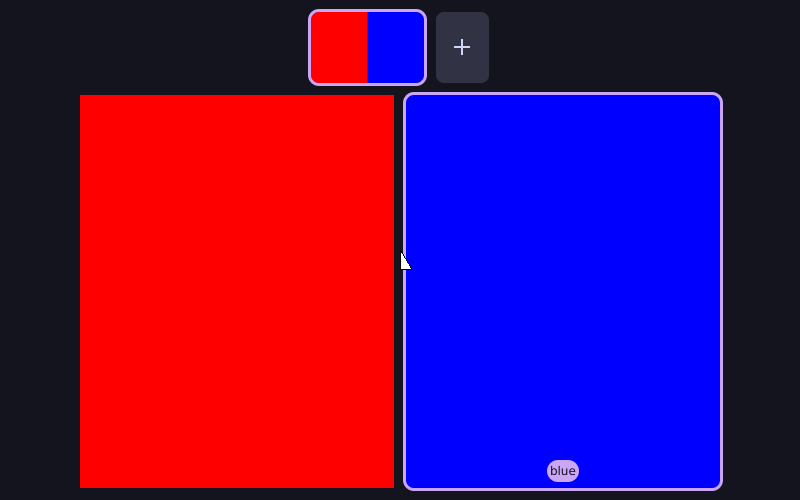
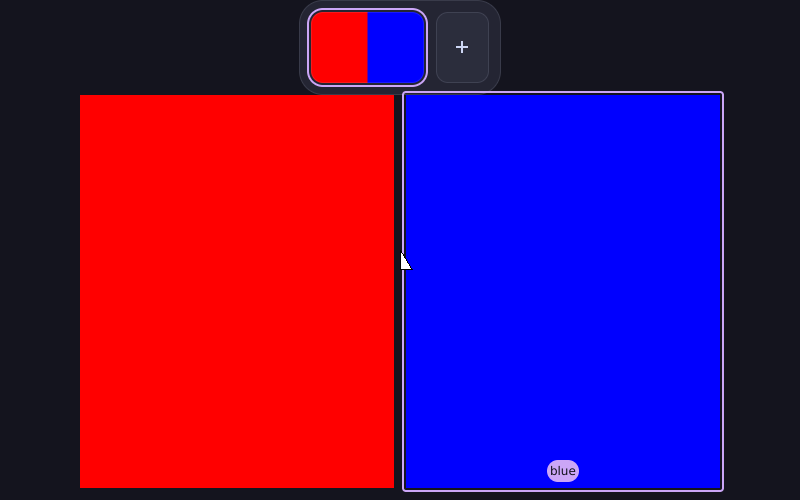
overview: the strip, the + tile and the ring in the shell's frosted material (#261)
Rendered on the RTX 3060 Ti with the default look, the overview did not match
lys-shell's glass panels. The + tile was an opaque block, the thumbnails floated
with nothing tying them together, and the ring touched what it marked.

The strip now sits on a pane with the shell's recipe: a 55% card tint and a 12%
hairline over the blurred layers, with a radius of the rounding plus 4. The +
tile is the same glass and its glyph is smaller. A thumbnail gets that hairline
inside its own footprint. The ring is 2 px with a 2 px gap, following the
window's rounding on a window. Hover is a 10% ink like the shell's, rather than
a grey wash.

The pane draws behind the windows and slides as one piece, because over them it
tinted the border of a window still shrinking from the full output. The overview
golden changes because the look is meant to.

Changed region(s): [[0.375, 0.0, 0.9062, 0.99]]

diff --git a/wm/internal/compositor/overviewdraw.go b/wm/internal/compositor/overviewdraw.go
@@ -16,12 +16,17 @@ import (
 )
 
 const (
-	overviewRadius      = 8
-	overviewRing        = 3
+	overviewRadius      = lookUnit + 4
+	overviewRingWidth   = 2
+	overviewRingGap     = 2
+	overviewTrayPad     = 12
 	overviewLabelPx     = 12
 	overviewLabelHeight = 22
 	overviewLabelGap    = 6
 	overviewPlusArm     = 2
+	overviewGlassTint   = 0.55
+	overviewRimStrength = 0.12
+	overviewHoverInk    = 0.1
 )
 
 var overviewGlass wm.Look
@@ -56,6 +61,7 @@ func (c *Compositor) drawOverview(pass *frame, o *output.Output, v *overviewView
 	if c.switches[o] == nil {
 		v.leaving = nil
 	}
+	c.drawOverviewPane(pass, o, v, p, in)
 	shown = c.drawOverviewEntries(pass, o, v, p, shown)
 	if err := c.drawOverviewStrip(pass, o, v, p, in); err != nil {
 		return shown, err
@@ -185,14 +191,23 @@ func (c *Compositor) drawOverviewDragged(pass *frame, o *output.Output, p float6
 	return shown
 }
 
+func stripSlide(o *output.Output, r image.Rectangle, p float64) image.Rectangle {
+	return anim.LerpRect(r.Sub(image.Pt(0, r.Max.Y-o.Logical().Min.Y)), r, p)
+}
+
+func (c *Compositor) drawOverviewPane(pass *frame, o *output.Output, v *overviewView, p float64, in float32) {
+	if in <= 0 || v.plus.Empty() || len(v.spaces) == 0 {
+		return
+	}
+	pane := stripSlide(o, v.spaces[0].rect.Union(v.plus).Inset(-overviewTrayPad), p)
+	c.drawOverviewGlass(pass, o, deviceRect(o, pane), deviceLength(o, overviewRadius+overviewTrayPad), in)
+}
+
 func (c *Compositor) drawOverviewStrip(pass *frame, o *output.Output, v *overviewView, p float64, in float32) error {
 	if in <= 0 {
 		return nil
 	}
-	top := o.Logical().Min.Y
-	slide := func(r image.Rectangle) image.Rectangle {
-		return anim.LerpRect(r.Sub(image.Pt(0, r.Max.Y-top)), r, p)
-	}
+	slide := func(r image.Rectangle) image.Rectangle { return stripSlide(o, r, p) }
 	radius := deviceLength(o, overviewRadius)
 	redrawn := false
 	settled := c.overview.progress.Done(c.frameTime)
@@ -222,17 +237,18 @@ func (c *Compositor) drawOverviewStrip(pass *frame, o *output.Output, v *overvie
 			tex: t.target.Texture(), src: render.FRect{W: float64(drawn.X), H: float64(drawn.Y)}, dst: dst, alpha: in, version: t.version,
 			mask: render.Mask{Keep: render.RoundRect{Rect: dst, Radius: radius}},
 		})
+		c.drawOverviewRim(pass, o, dst, radius, in)
 		if t.id == v.workspace {
-			c.drawOverviewRing(pass, o, slide(t.rect), in)
+			c.drawOverviewRing(pass, o, slide(t.rect), radius, in)
 		}
 	}
 	if v.plus.Empty() {
 		return nil
 	}
 	dst := deviceRect(o, slide(v.plus))
-	pass.fillMasked(dst, scaleColor(c.decor.Tab.Inactive.Background, in), render.Mask{Keep: render.RoundRect{Rect: dst, Radius: radius}})
+	c.drawOverviewGlass(pass, o, dst, radius, in)
 	arm := max(o.Scale().ToDevice(overviewPlusArm), 1)
-	span := min(dst.Dx(), dst.Dy()) / 3
+	span := min(dst.Dx(), dst.Dy()) / 4
 	mid := dst.Min.Add(dst.Size().Div(2))
 	ink := scaleColor(c.decor.Tab.Inactive.Text, in)
 	pass.FillRect(image.Rect(mid.X-span/2, mid.Y-arm/2, mid.X+span/2, mid.Y-arm/2+arm), ink)
@@ -240,11 +256,26 @@ func (c *Compositor) drawOverviewStrip(pass *frame, o *output.Output, v *overvie
 	return nil
 }
 
-func (c *Compositor) drawOverviewRing(pass *frame, o *output.Output, r image.Rectangle, a float32) {
-	inner := deviceRect(o, r)
-	outer := inner.Inset(-o.Scale().ToDevice(overviewRing))
-	radius := deviceLength(o, overviewRadius)
-	ring := render.Mask{Keep: render.RoundRect{Rect: outer, Radius: radius + float32(inner.Min.X-outer.Min.X)}, Cut: render.RoundRect{Rect: inner, Radius: radius}}
+func (c *Compositor) overviewInk(strength, in float32) render.Color {
+	return scaleColor(c.decor.Tab.Inactive.Text.Premultiply(), strength*in)
+}
+
+func (c *Compositor) drawOverviewGlass(pass *frame, o *output.Output, r image.Rectangle, radius, in float32) {
+	pass.fillMasked(r, scaleColor(c.decor.Tab.Inactive.Background.Premultiply(), overviewGlassTint*in), render.Mask{Keep: render.RoundRect{Rect: r, Radius: radius}})
+	c.drawOverviewRim(pass, o, r, radius, in)
+}
+
+func (c *Compositor) drawOverviewRim(pass *frame, o *output.Output, r image.Rectangle, radius, in float32) {
+	inner := r.Inset(max(o.Scale().ToDevice(1), 1))
+	pass.fillMasked(r, c.overviewInk(overviewRimStrength, in), render.Mask{Keep: render.RoundRect{Rect: r, Radius: radius}, Cut: render.RoundRect{Rect: inner, Radius: max(radius-float32(inner.Min.X-r.Min.X), 0)}})
+}
+
+func (c *Compositor) drawOverviewRing(pass *frame, o *output.Output, r image.Rectangle, radius, a float32) {
+	gap, width := o.Scale().ToDevice(overviewRingGap), o.Scale().ToDevice(overviewRingWidth)
+	inner := deviceRect(o, r).Inset(-gap)
+	outer := inner.Inset(-width)
+	cut := radius + float32(gap)
+	ring := render.Mask{Keep: render.RoundRect{Rect: outer, Radius: cut + float32(width)}, Cut: render.RoundRect{Rect: inner, Radius: cut}}
 	c.paintBorder(pass, c.decor.ActiveBorder, outer, inner, ring, a, 0)
 }
 
@@ -394,7 +425,7 @@ func (c *Compositor) drawOverviewSelection(pass *frame, o *output.Output, v *ove
 				continue
 			}
 			r := e.rect(o, p, c.frameTime)
-			c.drawOverviewRing(pass, o, r, in)
+			c.drawOverviewRing(pass, o, r, deviceLength(o, c.decor.Rounding), in)
 			dev := deviceRect(o, r)
 			return c.drawOverviewLabel(pass, o, t.w.top.Title(), t.w.top.Icon(), dev.Max.Y-o.Scale().ToDevice(overviewLabelHeight+overviewLabelGap), dev, in)
 		}
@@ -412,7 +443,7 @@ func (c *Compositor) drawOverviewSelection(pass *frame, o *output.Output, v *ove
 
 func (c *Compositor) drawOverviewHover(pass *frame, o *output.Output, r image.Rectangle, text string, in float32) error {
 	dev := deviceRect(o, r)
-	pass.fillMasked(dev, scaleColor(render.Color{R: 0x30, G: 0x30, B: 0x30, A: 0x30}, in), render.Mask{Keep: render.RoundRect{Rect: dev, Radius: deviceLength(o, overviewRadius)}})
+	pass.fillMasked(dev, c.overviewInk(overviewHoverInk, in), render.Mask{Keep: render.RoundRect{Rect: dev, Radius: deviceLength(o, overviewRadius)}})
 	return c.drawOverviewLabel(pass, o, text, nil, dev.Max.Y+o.Scale().ToDevice(overviewLabelGap), dev, in)
 }
 

diff --git a/wm/internal/harness/overview_test.go b/wm/internal/harness/overview_test.go
@@ -2001,3 +2001,50 @@ func TestABarCommittingNoDamageRedrawsNoThumbnail(t *testing.T) {
 		t.Fatalf("commits without damage redrew %d thumbnails", got-first)
 	}
 }
+
+func TestTheStripIsGlassOverTheBlurredLayers(t *testing.T) {
+	magenta := render.Color{R: 0xff, B: 0xff, A: 0xff}
+	onEachConfiguredRenderer(t, func(t *testing.T, start gpuStarter) {
+		h := start(t, func(cfg *compositor.Config) {
+			plainOverview(cfg)
+			cfg.Decor.ActiveBorder = compositor.SolidBorder(magenta)
+		}, overviewMode)
+		c := testclient.Connect(t, h.Socket())
+		wallpaper := c.Layer(testclient.LayerSpec{
+			Layer:  cwlr.ZwlrLayerShellV1LayerBackground,
+			Anchor: cwlr.ZwlrLayerSurfaceV1AnchorTop | cwlr.ZwlrLayerSurfaceV1AnchorBottom | cwlr.ZwlrLayerSurfaceV1AnchorLeft | cwlr.ZwlrLayerSurfaceV1AnchorRight,
+		}, testclient.Fill(0, 0xff, 0))
+		c.DispatchUntil("the wallpaper to map", wallpaper.Mapped)
+		wallpaper.Stop()
+		w := c.Window("window", testclient.Fill(0xff, 0, 0))
+		c.DispatchUntil("the window to map", w.Mapped)
+		w.Stop()
+		h.Rendered(0)
+		h.dispatch("overview show")
+		plan := planOf(h, 0)
+		thumb := plan.Strip[0]
+		mid := centre(thumb).Y
+		h.Eventually("the overview at rest", func(_ *headless.Backend, comp *compositor.Compositor) bool {
+			return comp.OverviewProgress(comp.Now()) >= 1 && !comp.OverviewThumbsRough()
+		})
+		px := h.Rendered(0)
+		backdrop := pixel(px, 2, overviewMode.Size.Y-2)
+		if got := pixel(px, thumb.Min.X-4, mid); got != [3]byte{0xff, 0, 0xff} {
+			t.Errorf("the ring of the workspace shown: %v", got)
+		}
+		if got := pixel(px, thumb.Min.X-2, mid); got == [3]byte{0xff, 0, 0xff} {
+			t.Error("no gap between the ring and its thumbnail")
+		}
+		pane := pixel(px, thumb.Max.X+(plan.Plus.Min.X-thumb.Max.X)/2, mid)
+		if pane == backdrop {
+			t.Errorf("no pane behind the strip: %v", pane)
+		}
+		plus := pixel(px, plan.Plus.Min.X+6, mid)
+		if plus[1] <= plus[0] || plus[1] <= plus[2] {
+			t.Errorf("the + tile hides the layers behind it: %v", plus)
+		}
+		if plus == pane {
+			t.Errorf("the + tile is not its own pane: %v", plus)
+		}
+	})
+}

diff --git a/wm/docs/config.md b/wm/docs/config.md
@@ -640,6 +640,8 @@ every tab of a tab group and windows a fullscreen one covers, on Wayland or X11.
 Dialogs stay with their parent as one tile, and popups scale with their window.
 Minimized windows sit in a row along the bottom, and a click there brings one back.
 
+The strip sits on a pane of the same glass as a lys-shell panel: a tint of `tabs.inactive`'s background and a hairline of its text colour over the blurred layers, and so does the `+` tile. A thumbnail has that hairline too. The workspace shown and the window under the ring carry a ring in `borders.active`, set off by a small gap.
+
 Layer surfaces: `background` and `bottom` stay, and blur and dim. `top`, so bars,
 fade out as the overview opens and back as it closes, keeping their frame callbacks.
 They stay in the thumbnails, under fullscreen windows as on screen, and a thumbnail
